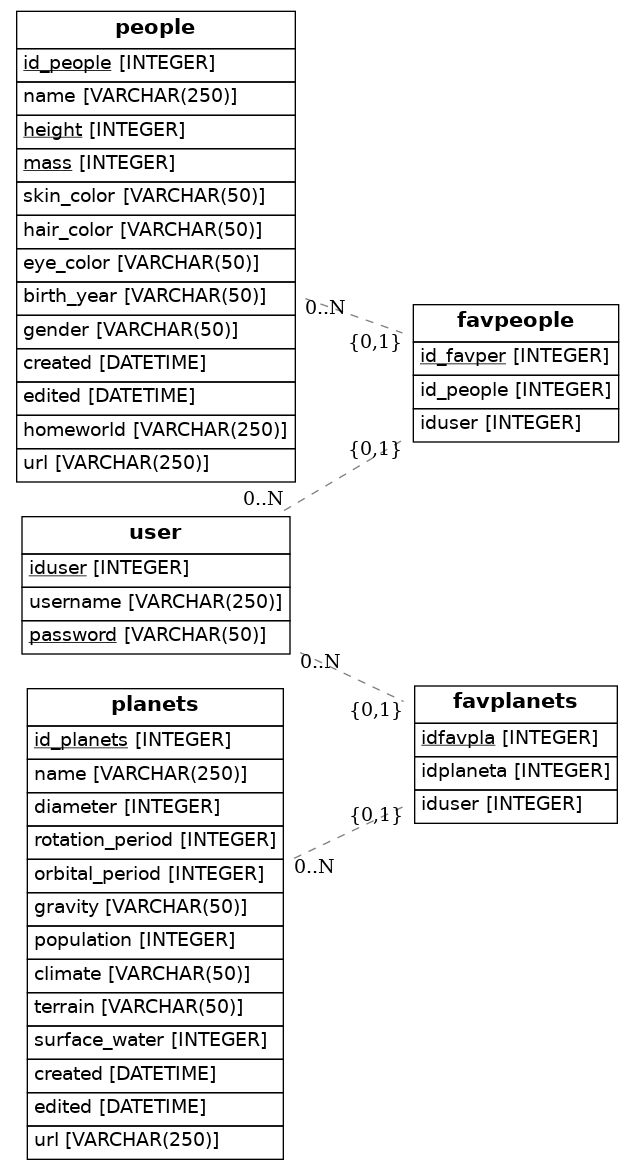
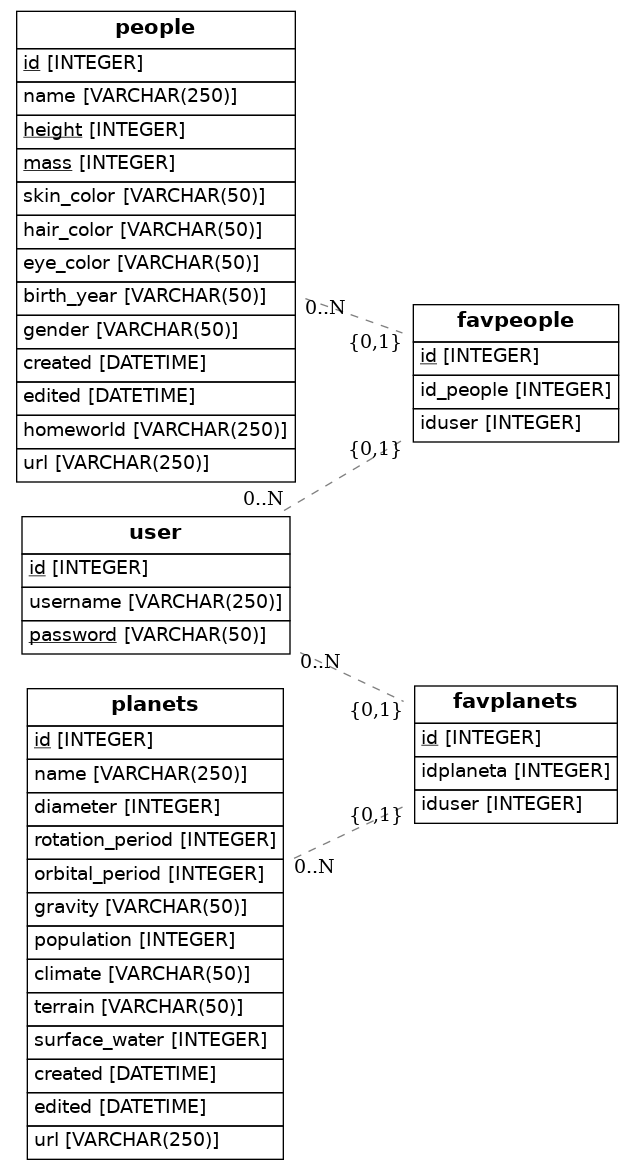
star-wars-model-fix

diff --git a/src/models.py b/src/models.py
@@ -11,7 +11,10 @@ Base = declarative_base()
 
 class User(Base):
     __tablename__ = 'user'
-    iduser = Column(Integer, primary_key=True)
+    # Here we define columns for the table person
+    # Notice that each column is also a normal Python instance attribute.
+    id= Column(Integer, primary_key=True)
+    id = Column(Integer, primary_key=True)
     username = Column(String(250), nullable=False)
     password= Column(String(50), primary_key=True)
 
@@ -19,7 +22,7 @@ class People(Base):
     __tablename__ = 'people'
     # Here we define columns for the table person
     # Notice that each column is also a normal Python instance attribute.
-    id_people = Column(Integer, primary_key=True)
+    id= Column(Integer, primary_key=True)
     name = Column(String(250), nullable=False)
     height= Column(Integer, primary_key=True)
     mass= Column(Integer, primary_key=True)
@@ -35,7 +38,7 @@ class People(Base):
 
 class FavPeople(Base):
     __tablename__ = 'favpeople'
-    id_favper= Column(Integer, primary_key=True)
+    id= Column(Integer, primary_key=True)
     id_people = Column(Integer, ForeignKey('people.id_people'))
     people = relationship(People)
     iduser = Column(Integer, ForeignKey('user.iduser'))
@@ -43,7 +46,7 @@ class FavPeople(Base):
 
 class Planets(Base):
     __tablename__ = 'planets'
-    id_planets = Column(Integer, primary_key=True)
+    id = Column(Integer, primary_key=True)
     name = Column(String(250), nullable=False)
     diameter= Column(Integer, nullable=False)
     rotation_period= Column(Integer, nullable=False)
@@ -59,7 +62,7 @@ class Planets(Base):
 
 class FavPlanets(Base):
     __tablename__ = 'favplanets'
-    idfavpla= Column(Integer, primary_key=True)
+    id= Column(Integer, primary_key=True)
     idplaneta = Column(Integer, ForeignKey('planets.id_planets'))
     planets = relationship(Planets)
     iduser = Column(Integer, ForeignKey('user.iduser'))
